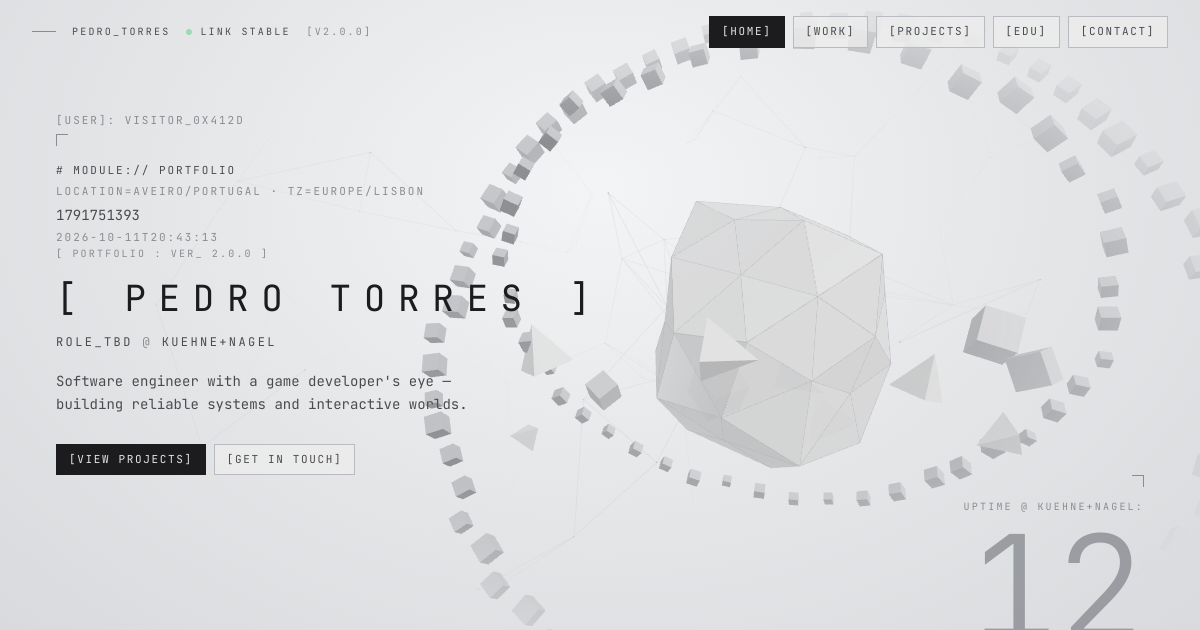
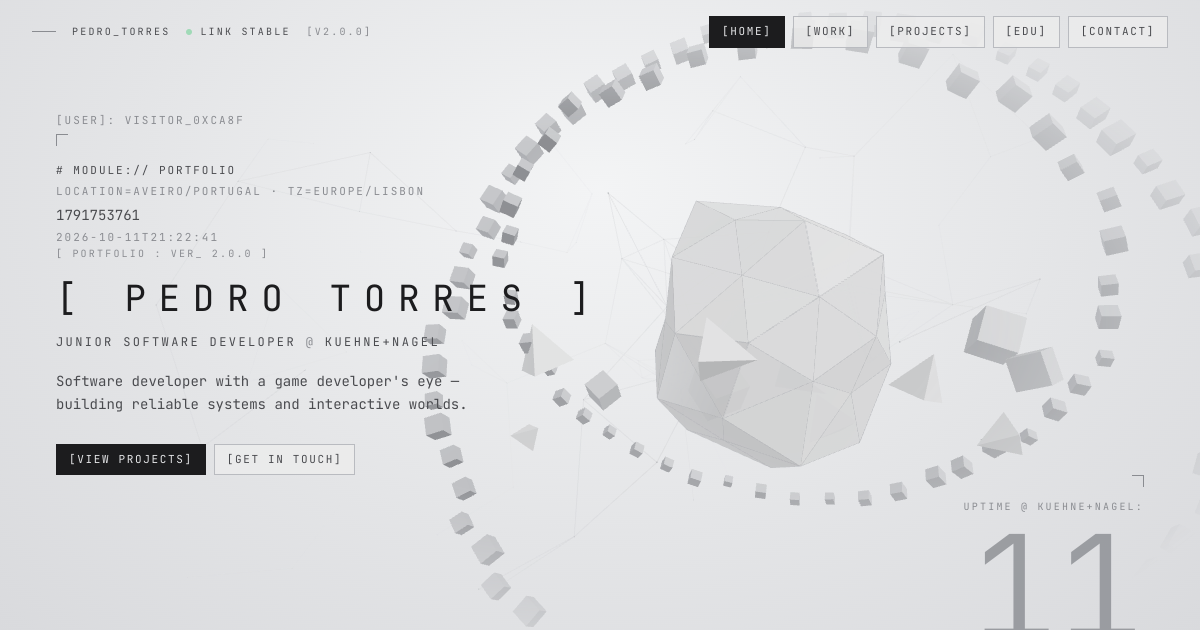
Fill in Kuehne+Nagel role, start date and responsibilities
- Role: Junior Software Developer, since 2025-10-15
- Responsibilities: legacy page migrations to the web, support ticket resolution
- Tenure/uptime counters now use the exact start day
- Copy aligned to "software developer" across meta tags and README
- Regenerated Open Graph image with the real role

Claude-Session: https://claude.ai/code/session_01HH1iDaMh9jpwnPp9n1WT3U

diff --git a/src/constants/index.js b/src/constants/index.js
@@ -2,18 +2,16 @@
  * ─────────────────────────────────────────────────────────────
  *  CONTEÚDO DO PORTFÓLIO
  *  Todo o texto do site vive aqui. Os componentes só leem daqui.
- *  Procura "TODO" para os campos que ainda faltam preencher.
  * ─────────────────────────────────────────────────────────────
  */
 
 export const profile = {
   name: "Pedro Torres",
   handle: "PEDRO_TORRES",
-  // TODO: substituir pelo cargo real na Kuehne+Nagel
-  role: "ROLE_TBD",
+  role: "Junior Software Developer",
   company: "Kuehne+Nagel",
   tagline:
-    "Software engineer with a game developer's eye — building reliable systems and interactive worlds.",
+    "Software developer with a game developer's eye — building reliable systems and interactive worlds.",
   location: "Aveiro, Portugal",
   timezone: "Europe/Lisbon",
   availability: "Open to remote collaboration worldwide",
@@ -25,7 +23,7 @@ export const profile = {
 export const seo = {
   title: `${profile.name} — ${profile.role}`,
   description:
-    "Portfolio of Pedro Torres — software engineer at Kuehne+Nagel with a Master's in Digital Game Development from the University of Aveiro.",
+    "Portfolio of Pedro Torres — junior software developer at Kuehne+Nagel with a Master's in Digital Game Development from the University of Aveiro.",
 };
 
 export const navLinks = [
@@ -41,19 +39,16 @@ export const work = [
   {
     company: "Kuehne+Nagel",
     node: "ACTIVE",
-    // TODO: cargo real
-    role: "ROLE_TBD",
-    // TODO: confirmar o mês de entrada (formato AAAA-MM). Alimenta o contador "UPTIME".
-    startDate: "2025-10",
+    role: "Junior Software Developer",
+    // Data de entrada (AAAA-MM-DD). Alimenta os contadores de tempo na empresa.
+    startDate: "2025-10-15",
     endDate: null, // null = presente
     location: "Portugal",
-    // TODO: 2–3 pontos sobre o que fazes, tecnologias e impacto
     contents: [
-      "TODO — what you build or maintain day to day",
-      "TODO — main technologies and tools",
-      "TODO — one concrete result or impact",
+      "Migrating legacy pages to modern web applications.",
+      "Resolving support tickets across a wide range of day-to-day issues.",
     ],
-    stack: [], // TODO: ex. ["C#", ".NET", "SQL"]
+    stack: [], // opcional, ex. ["C#", ".NET", "SQL"]
   },
 ];
 

diff --git a/src/components/useNow.js b/src/components/useNow.js
@@ -10,17 +10,21 @@ export default function useNow(ms = 1000) {
   return now;
 }
 
-/** "2025-10" → { years, months, days } decorridos até `now`. */
-export function elapsedSince(yyyymm, now) {
-  const [y, m] = yyyymm.split("-").map(Number);
-  const start = new Date(y, m - 1, 1);
+/** "2025-10-15" (ou "2025-10") → { years, months, days } completos decorridos até `now`. */
+export function elapsedSince(date, now) {
+  const [y, m, d = 1] = date.split("-").map(Number);
+  const start = new Date(y, m - 1, d);
   let months = (now.getFullYear() - start.getFullYear()) * 12 + (now.getMonth() - start.getMonth());
+  if (now.getDate() < start.getDate()) months -= 1;
   if (months < 0) months = 0;
   const days = Math.max(0, Math.floor((now - start) / 86400000));
   return { years: Math.floor(months / 12), months: months % 12, totalMonths: months, days };
 }
 
-export function formatMonth(yyyymm) {
-  const [y, m] = yyyymm.split("-").map(Number);
+export function formatMonth(date) {
+  const [y, m] = date.split("-").map(Number);
   return new Date(y, m - 1, 1).toLocaleString("en-GB", { month: "short", year: "numeric" }).toUpperCase();
 }
+
+/** "2025-10-15" → "2025.10.15" */
+export const dotted = (date) => date.replaceAll("-", ".");

diff --git a/index.html b/index.html
@@ -17,7 +17,7 @@
     <meta property="og:title" content="%SEO_TITLE%" />
     <meta
       property="og:description"
-      content="Software engineer at Kuehne+Nagel · Game developer · University of Aveiro."
+      content="Junior software developer at Kuehne+Nagel · Game developer · University of Aveiro."
     />
     <meta property="og:url" content="https://pedrotorres1001.github.io/PortfolioPedroTorres/" />
     <meta property="og:image" content="https://pedrotorres1001.github.io/PortfolioPedroTorres/og.png" />
@@ -32,7 +32,7 @@
     <div id="root"></div>
     <noscript>
       <p style="font-family: monospace; padding: 2rem">
-        Pedro Torres — software engineer at Kuehne+Nagel. Enable JavaScript to view the portfolio.
+        Pedro Torres — junior software developer at Kuehne+Nagel. Enable JavaScript to view the portfolio.
       </p>
     </noscript>
     <script type="module" src="/src/main.jsx"></script>

diff --git a/src/sections/Hero.jsx b/src/sections/Hero.jsx
@@ -2,7 +2,7 @@ import { lazy, Suspense, useEffect, useMemo, useState } from "react";
 import { motion, useReducedMotion } from "motion/react";
 import { profile, work } from "../constants";
 import Scramble from "../components/Scramble";
-import useNow, { elapsedSince } from "../components/useNow";
+import useNow, { dotted, elapsedSince } from "../components/useNow";
 
 const HeroScene = lazy(() => import("../components/HeroScene"));
 
@@ -70,7 +70,7 @@ function Uptime() {
       >
         {String(total).padStart(2, "0")}
       </p>
-      <p className="label">MONTHS · SINCE {current.startDate.replace("-", ".")}</p>
+      <p className="label">MONTHS · SINCE {dotted(current.startDate)}</p>
     </div>
   );
 }

diff --git a/README.md b/README.md
@@ -1,6 +1,6 @@
 # Pedro Torres — Portfolio
 
-Personal portfolio of **Pedro Torres**, software engineer at **Kuehne+Nagel** with a background in computer engineering and a Master's in Digital Game Development (University of Aveiro).
+Personal portfolio of **Pedro Torres**, junior software developer at **Kuehne+Nagel** with a background in computer engineering and a Master's in Digital Game Development (University of Aveiro).
 
 🔗 **Live:** https://pedrotorres1001.github.io/PortfolioPedroTorres/
 
@@ -28,7 +28,7 @@ A light "system interface" aesthetic: monospaced type, bracketed labels, thin li
 
 **All text lives in [`src/constants/index.js`](src/constants/index.js)** — profile, work, education, projects, socials and the EmailJS keys. Components only read from there, so updating the site never requires touching JSX. The page `<title>` and meta description are injected from the same file at build time.
 
-To add a job, add an object to `work` (the first entry is the featured one). `startDate` uses `YYYY-MM` and drives the tenure and uptime counters.
+To add a job, add an object to `work` (the first entry is the featured one). `startDate` uses `YYYY-MM-DD` and drives the tenure and uptime counters.
 
 To add a project, add an object to `myProjects` and drop a `.webp` image in `public/assets/projects/`.
 
